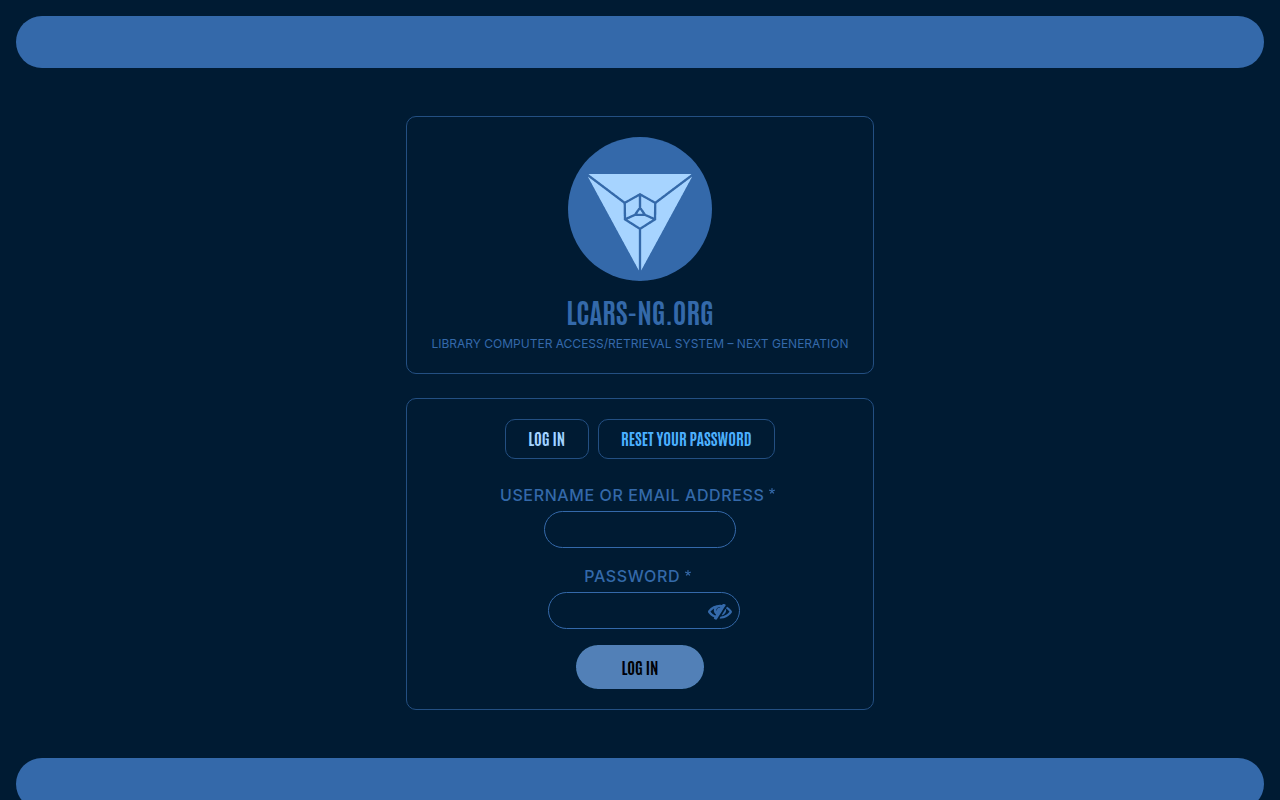
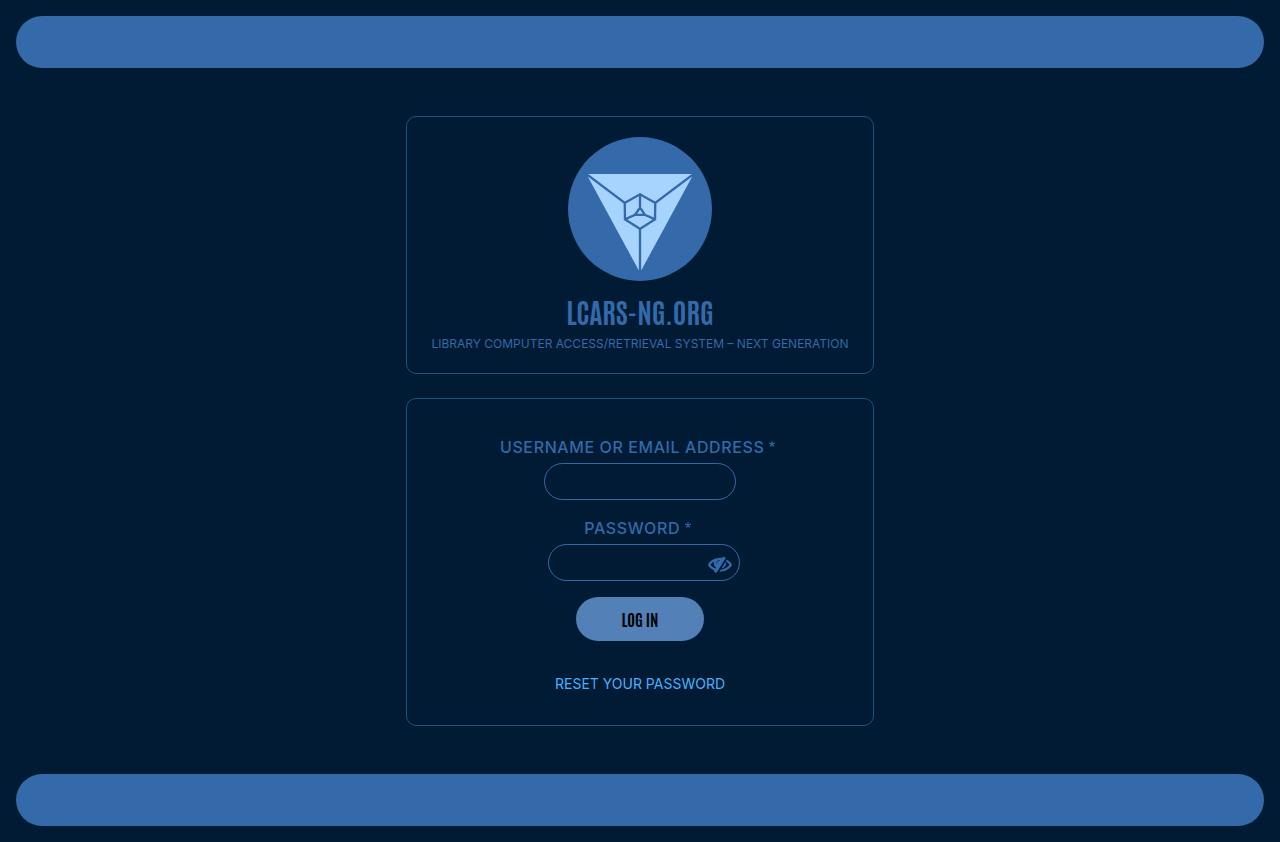
Login screenshots from the front page with both bars, also on a phone
The login page as visitors who are not signed in see it on the front page,
at its full height with the bar at the top and the one at the bottom
(1280 x 842), the same on a phone, and the front page on a phone for
signed-in users at the same size (375 x 884 at twice the density). The
README shows the three side by side, as high as each other.

From lcars-ng.org 1a1de31.

diff --git a/README.md b/README.md
@@ -23,8 +23,9 @@ text, so it looks the same in every browser and on every system.
 </p>
 
 <p>
-  <a href="images/screenshots/login.png"><img src="images/screenshots/login.png" width="76%" alt="The login page of LCARS-NG: between a bar at the top and one at the bottom, a box with the logo on its disc, site name and slogan, below it a box with the tabs Log in and Reset your password and the login form"></a>
-  <a href="images/screenshots/mobile-front-page.png"><img src="images/screenshots/mobile-front-page.png" width="22%" alt="LCARS-NG front page on a phone for signed-in users: the top bar of Drupal closed by an elbow, below it the upper panel with logo, site name, slogan and status line between two elbows, the menu as a grid of buttons and the title bar of the page"></a>
+  <a href="images/screenshots/login.png"><img src="images/screenshots/login.png" width="62.5%" alt="The front page of LCARS-NG for visitors who are not signed in: between a bar at the top and one at the bottom, a box with the logo on its disc, site name and slogan, below it a box with the login form and the link Reset your password"></a>
+  <a href="images/screenshots/mobile-login.png"><img src="images/screenshots/mobile-login.png" width="17.5%" alt="The same login on a phone: both bars, the box with logo, site name and slogan and the box with the login form, narrower and one below the other"></a>
+  <a href="images/screenshots/mobile-front-page.png"><img src="images/screenshots/mobile-front-page.png" width="17.5%" alt="LCARS-NG front page on a phone for signed-in users: the top bar of Drupal closed by an elbow, below it the upper panel with logo, site name, slogan and status line between two elbows, the menu as a grid of buttons and the title bar of the page"></a>
 </p>
 
 - To see the theme on a live site, visit the
